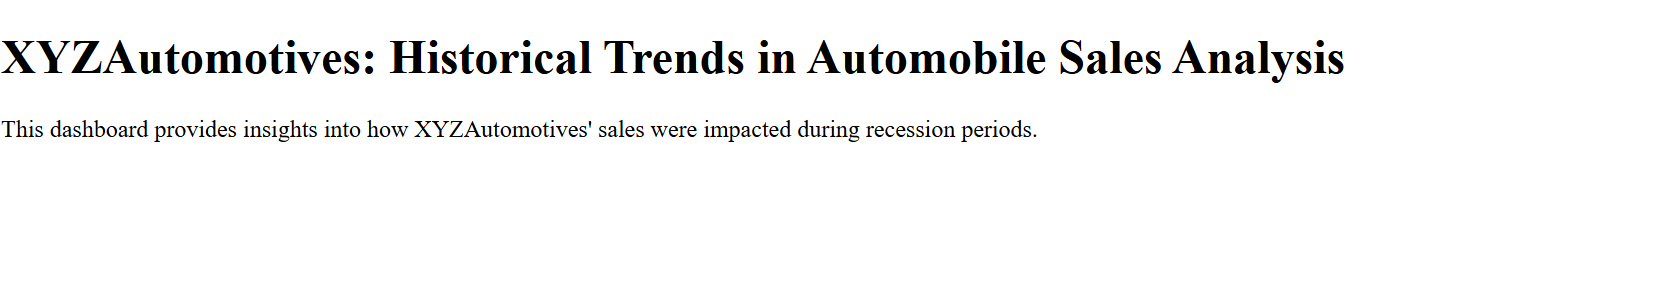
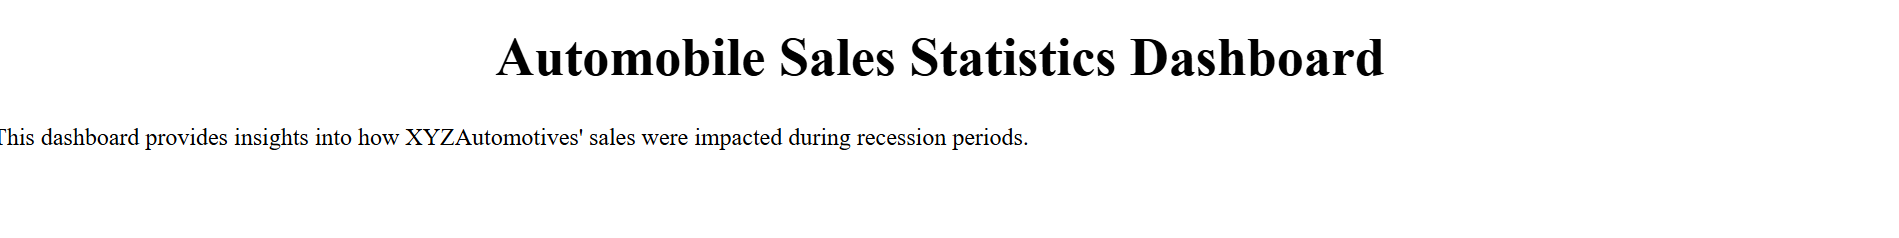
Chnage the course 8

Changed region(s): [[0.0, 0.1176, 0.8076, 0.3235], [0.0, 0.3824, 0.6213, 0.4706], [0.0, 0.5294, 0.5591, 0.6176]]

diff --git a/8.Data_visualisation/dash_plotly/final_project.py b/8.Data_visualisation/dash_plotly/final_project.py
@@ -4,54 +4,46 @@ import dash_html_components as html
 from dash.dependencies import Input, Output
 import pandas as pd
 import plotly.graph_objs as go
-import io,requests
+import io, requests
 
 # URL of the CSV file
 URL = "https://cf-courses-data.s3.us.cloud-object-storage.appdomain.cloud/IBMDeveloperSkillsNetwork-DV0101EN-SkillsNetwork/Data%20Files/historical_automobile_sales.csv"
 
 # Fetch the data from the URL
 response = requests.get(URL)
-
-# Raise an error if the request failed
-response.raise_for_status()
-
-# Convert the response content into a readable format for pandas
+response.raise_for_status()  # Raise an error if the request fails
 csv_content = io.StringIO(response.text)
 
 # Read the CSV data into a pandas dataframe
 df = pd.read_csv(csv_content)
-print(df.head())
+
+# Ensure correct data types and extract the year from the date
+df['Date'] = pd.to_datetime(df['Date'])
+df['Year'] = df['Date'].dt.year
 
 # Initialize the Dash app
 app = dash.Dash(__name__)
 
 # Define the layout of the app
 app.layout = html.Div(children=[
-    html.H1('XYZAutomotives: Historical Trends in Automobile Sales Analysis'),
+    html.H1('Automobile Sales Statistics Dashboard'),
     
     # Dropdown for Year Selection
     html.Div([
         html.Label('Select Year:'),
         dcc.Dropdown(
             id='year-dropdown',
-            options=[{'label': str(year), 'value': year} for year in df['Date'].str[:4].unique()],
-            value=df['Date'].str[:4].iloc[0]  # Default value
+            options=[{'label': str(year), 'value': year} for year in df['Year'].unique()],
+            value=df['Year'].min()  # Default value
         )
     ], style={'width': '48%', 'display': 'inline-block', 'padding': '10px'}),
-    
-    # Graphs for Recession Report Statistics
+
+    # Graphs for Yearly Report Statistics
     html.Div([
-        # Line chart for Average Automobile Sales Fluctuation Over Recession Period (Year-wise)
-        dcc.Graph(id='avg-sales-fluctuation'),
-        
-        # Bar chart for Average Number of Vehicles Sold by Vehicle Type
-        dcc.Graph(id='avg-vehicles-by-type'),
-        
-        # Pie chart for Total Expenditure Share by Vehicle Type During Recessions
-        dcc.Graph(id='expenditure-share'),
-        
-        # Bar chart for Effect of Unemployment Rate on Vehicle Type and Sales
-        dcc.Graph(id='unemployment-effect')
+        dcc.Graph(id='avg-sales-fluctuation'),  # Line chart
+        dcc.Graph(id='avg-vehicles-by-type'),  # Bar chart
+        dcc.Graph(id='expenditure-share'),  # Pie chart
+        dcc.Graph(id='unemployment-effect')  # Dual-axis bar chart
     ], style={'margin-top': '20px'})
 ])
 
@@ -65,45 +57,46 @@ app.layout = html.Div(children=[
 )
 def update_graphs(year):
     # Filter data based on the selected year
-    filtered_df = df[df['Date'].str[:4] == year]
+    filtered_df = df[df['Year'] == year]
     
-    # Average Automobile Sales Fluctuation Over Recession Period (Year-wise)
-    avg_sales = filtered_df.groupby('Date')['Automobile_Sales'].mean().reset_index()
-    sales_fluctuation_fig = {
+    # Average Automobile Sales Fluctuation Over the Year
+    avg_sales = filtered_df.groupby(filtered_df['Date'].dt.month)['Automobile_Sales'].mean().reset_index()
+    avg_sales_fluctuation_fig = {
         'data': [go.Scatter(x=avg_sales['Date'], y=avg_sales['Automobile_Sales'], mode='lines', name='Sales')],
-        'layout': go.Layout(title='Average Automobile Sales Fluctuation Over Recession Period (Year-wise)', xaxis={'title': 'Year'}, yaxis={'title': 'Average Sales'})
+        'layout': go.Layout(title=f'Average Automobile Sales Fluctuation - {year}', 
+                            xaxis={'title': 'Month'}, yaxis={'title': 'Average Sales'})
     }
     
     # Average Number of Vehicles Sold by Vehicle Type
     avg_vehicles = filtered_df.groupby('Vehicle_Type')['Automobile_Sales'].mean().reset_index()
     avg_vehicles_fig = {
         'data': [go.Bar(x=avg_vehicles['Vehicle_Type'], y=avg_vehicles['Automobile_Sales'], name='Average Sales')],
-        'layout': go.Layout(title='Average Number of Vehicles Sold by Vehicle Type', xaxis={'title': 'Vehicle Type'}, yaxis={'title': 'Average Sales'})
+        'layout': go.Layout(title=f'Average Vehicles Sold by Type - {year}', 
+                            xaxis={'title': 'Vehicle Type'}, yaxis={'title': 'Average Sales'})
     }
     
-    # Total Expenditure Share by Vehicle Type During Recessions
+    # Total Expenditure Share by Vehicle Type
     expenditure_share = filtered_df.groupby('Vehicle_Type')['Advertising_Expenditure'].sum().reset_index()
     expenditure_share_fig = {
         'data': [go.Pie(labels=expenditure_share['Vehicle_Type'], values=expenditure_share['Advertising_Expenditure'])],
-        'layout': go.Layout(title='Total Expenditure Share by Vehicle Type During Recessions')
+        'layout': go.Layout(title=f'Total Advertising Expenditure Share by Type - {year}')
     }
     
     # Effect of Unemployment Rate on Vehicle Type and Sales
     unemployment_effect = filtered_df.groupby('Vehicle_Type')[['unemployment_rate', 'Automobile_Sales']].mean().reset_index()
     unemployment_effect_fig = {
         'data': [
-            go.Bar(x=unemployment_effect['Vehicle_Type'], y=unemployment_effect['unemployment_rate'], name='Unemployment Rate', yaxis='y1'),
-            go.Bar(x=unemployment_effect['Vehicle_Type'], y=unemployment_effect['Automobile_Sales'], name='Sales', yaxis='y2')
+            go.Bar(x=unemployment_effect['Vehicle_Type'], y=unemployment_effect['unemployment_rate'], name='Unemployment Rate'),
+            go.Bar(x=unemployment_effect['Vehicle_Type'], y=unemployment_effect['Automobile_Sales'], name='Sales')
         ],
         'layout': go.Layout(
-            title='Effect of Unemployment Rate on Vehicle Type and Sales',
+            title=f'Effect of Unemployment on Sales - {year}',
             xaxis={'title': 'Vehicle Type'},
-            yaxis=dict(title='Unemployment Rate', side='left'),
-            yaxis2=dict(title='Sales', overlaying='y', side='right')
+            yaxis={'title': 'Unemployment Rate', 'side': 'left'},
         )
     }
     
-    return sales_fluctuation_fig, avg_vehicles_fig, expenditure_share_fig, unemployment_effect_fig
+    return avg_sales_fluctuation_fig, avg_vehicles_fig, expenditure_share_fig, unemployment_effect_fig
 
 # Run the app
 if __name__ == '__main__':

diff --git a/8.Data_visualisation/dash_plotly/call_back.py b/8.Data_visualisation/dash_plotly/call_back.py
@@ -1,0 +1,101 @@
+from dash import Dash, dcc, html, Input, Output
+import plotly.graph_objs as go
+import pandas as pd
+import pandas as pd
+import requests, io
+
+# URL of the CSV file
+URL = "https://cf-courses-data.s3.us.cloud-object-storage.appdomain.cloud/IBMDeveloperSkillsNetwork-DV0101EN-SkillsNetwork/Data%20Files/historical_automobile_sales.csv"
+
+# Fetch the data from the URL
+response = requests.get(URL)
+
+# Raise an error if the request failed
+response.raise_for_status()
+
+# Convert the response content into a readable format for pandas
+csv_content = io.StringIO(response.text)
+
+# Read the CSV data into a pandas dataframe
+df = pd.read_csv(csv_content)
+
+# Initialize the Dash app
+app = Dash(__name__)
+
+# Define the layout
+app.layout = html.Div([
+    html.H1("Dynamic Report and Graph Display"),
+    
+    # Dropdown for selecting report type
+    html.Div([
+        html.Label("Select Report Type:"),
+        dcc.Dropdown(
+            id='report-dropdown',
+            options=[
+                {'label': 'Sales Report', 'value': 'sales'},
+                {'label': 'Consumer Confidence', 'value': 'confidence'}
+            ],
+            value='sales'
+        )
+    ], style={'margin-bottom': '20px'}),
+    
+    # Input container
+    html.Div(id='input-container', style={'margin-bottom': '20px'}),
+    
+    # Output container for graphs
+    dcc.Graph(id='output-container')
+])
+
+# Callback 1: Update the input-container based on report type
+@app.callback(
+    Output('input-container', 'children'),
+    Input('report-dropdown', 'value')
+)
+def update_input_container(report_type):
+    if report_type == 'sales':
+        return html.Div([
+            html.Label("Enter Sales Date Range:"),
+            dcc.DatePickerRange(
+                id='sales-date-range',
+                start_date=df['Date'].min(),
+                end_date=df['Date'].max()
+            )
+        ])
+    elif report_type == 'confidence':
+        return html.Div([
+            html.Label("Enter Consumer Confidence Threshold:"),
+            dcc.Input(
+                id='confidence-threshold',
+                type='number',
+                placeholder='Enter threshold value'
+            )
+        ])
+
+# Callback 2: Update the output-container based on user input
+@app.callback(
+    Output('output-container', 'figure'),
+    [Input('report-dropdown', 'value'),
+     Input('sales-date-range', 'start_date'),
+     Input('sales-date-range', 'end_date'),
+     Input('confidence-threshold', 'value')]
+)
+def update_output_container(report_type, start_date, end_date, confidence_threshold):
+    if report_type == 'sales' and start_date and end_date:
+        filtered_data = df[(df['Date'] >= start_date) & (df['Date'] <= end_date)]
+        figure = {
+            'data': [go.Bar(x=filtered_data['Date'], y=filtered_data['Sales'], name='Sales')],
+            'layout': go.Layout(title='Sales Report', xaxis={'title': 'Date'}, yaxis={'title': 'Sales'})
+        }
+        return figure
+    elif report_type == 'confidence' and confidence_threshold is not None:
+        filtered_data = df[df['Confidence'] >= confidence_threshold]
+        figure = {
+            'data': [go.Scatter(x=filtered_data['Date'], y=filtered_data['Confidence'], mode='lines', name='Confidence')],
+            'layout': go.Layout(title='Consumer Confidence Report', xaxis={'title': 'Date'}, yaxis={'title': 'Confidence Index'})
+        }
+        return figure
+    return {}
+
+# Run the app
+if __name__ == '__main__':
+    app.run_server(debug=True)

diff --git a/8.Data_visualisation/dash_plotly/create_project.py b/8.Data_visualisation/dash_plotly/create_project.py
@@ -7,7 +7,15 @@ app = dash.Dash(__name__)
 
 # Define the layout of the app
 app.layout = html.Div(children=[
-    html.H1('XYZAutomotives: Historical Trends in Automobile Sales Analysis'),
+    html.H1(
+            "Automobile Sales Statistics Dashboard",
+            style={
+                "textAlign": "center",  # Center align the text
+                "color": "black",      # Text color
+                "fontSize": "36px",    # Font size
+                "marginTop": "20px",   # Add some margin
+            },
+        ),
     html.Div([
         html.P('This dashboard provides insights into how XYZAutomotives\' sales were impacted during recession periods.')
     ])
